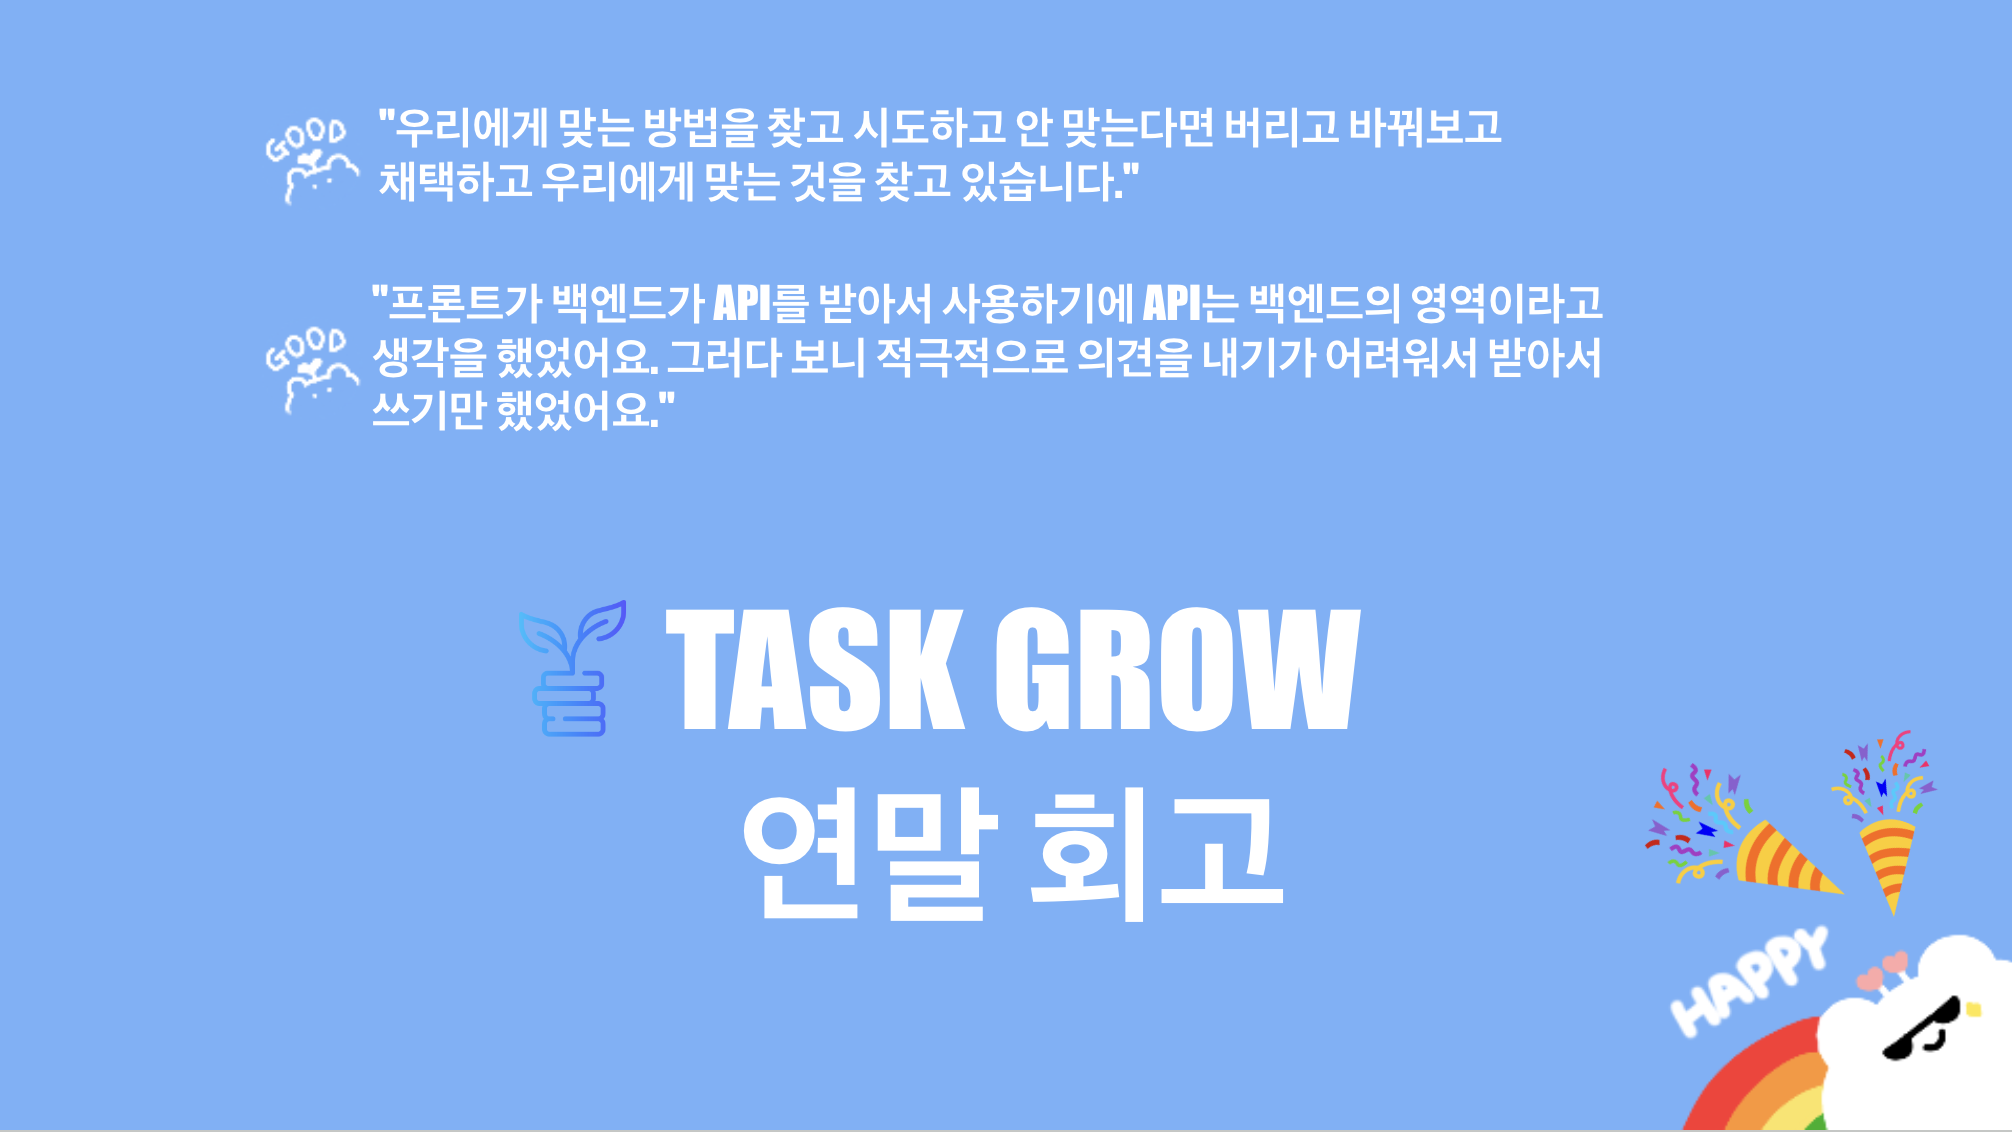
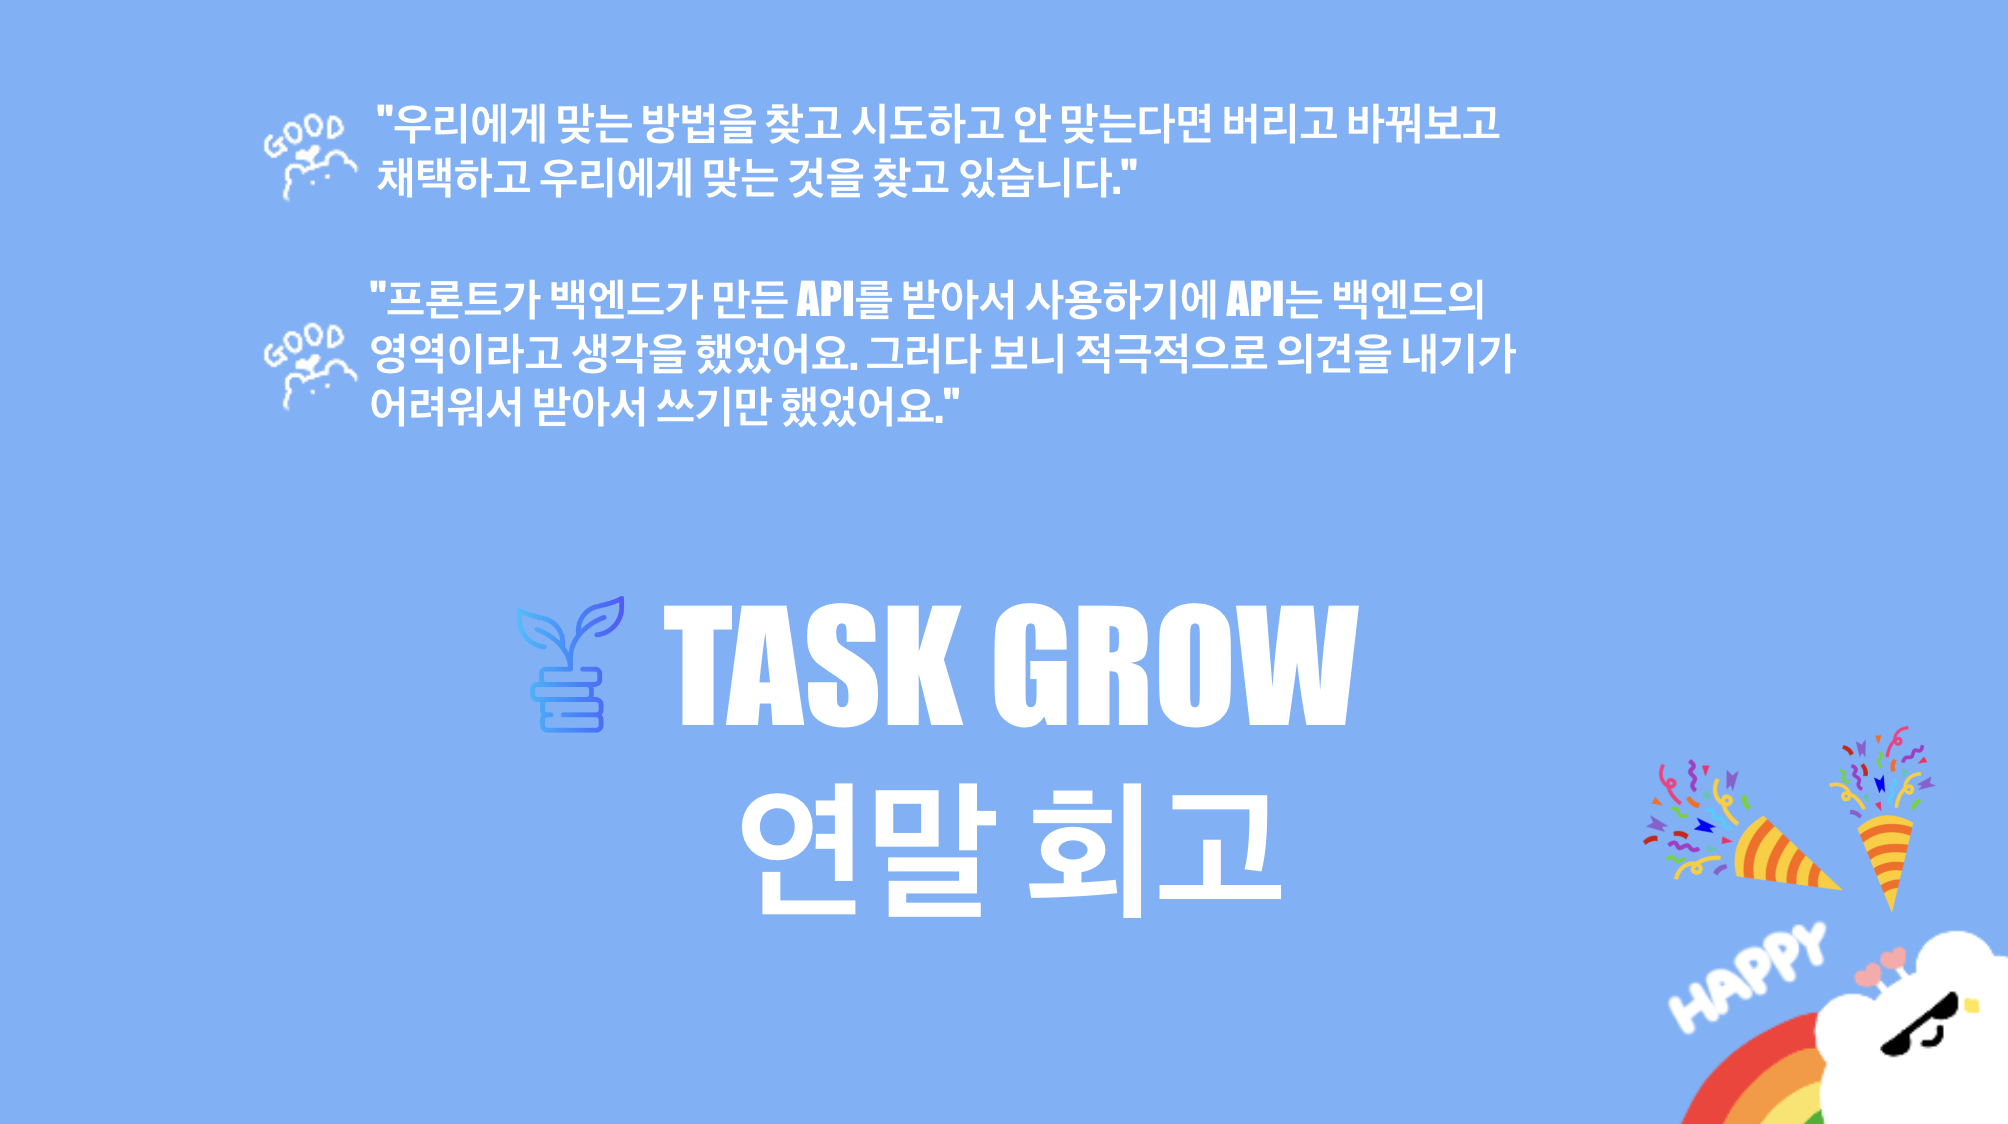
오타를 수정하라

diff --git a/_posts/2023-12-26-테스크 그로우의 연말 회고.md b/_posts/2023-12-26-테스크 그로우의 연말 회고.md
@@ -50,7 +50,7 @@ description: '테스크 그로우의 연말 회고'
 
 제일 성장했다고 느꼈을 때는 이전에 제가 작성한 코드의 고칠 부분이 보이고 그걸 좀 더 나은 방향으로 수정했을 때였어요. 이전에도 코드를 작성하면서 좀 더 괜찮은 방법이 있을 거 같다고는 생각했지만 그 방법은 생각해 내지 못했었는데 시간이 흐른 뒤 지금의 제가 수정하는 모습을 보고 조금이나마 성장했다는 것을 느낄 수 있었어요.
 
-그리고 협업하면서 어떻게 소통해야 하는지를 배웠어요. 또 칸반 보드, MSW를 도입해 보면서 더 나은 협업에 대해서도 고민해 보게 되었죠. 특히 API에 대한 생각이 많이 바뀌었어요. 이전에는 프론트가 백엔드가   API를 받아서 사용하기에 API는 백엔드의 영역이라고 생각을 했었어요. 그러다 보니 적극적으로 의견을 내기가 어려워서 받아서 쓰기만 했었어요. 어느 날 규원 님이 나에게 왔을 때 그대로 받아들이는 것이 아니라 분석과 설계는 해봐야 한다고 이야기를 하셨는데 그 말을 계기로 API가 오로지 백엔드의 영역이라는 관념에서 벗어나게 되었어요. 지금은 단순히 필요한 API를 요청하는 것에서 더 나아가 어떤 것이 필요한지, 왜 필요한지, 이렇게 구현해 보는 건 어떤지 설계를 함께 할 수 있게 되었어요.
+그리고 협업하면서 어떻게 소통해야 하는지를 배웠어요. 또 칸반 보드, MSW를 도입해 보면서 더 나은 협업에 대해서도 고민해 보게 되었죠. 특히 API에 대한 생각이 많이 바뀌었어요. 이전에는 프론트가 백엔드가 만든 API를 받아서 사용하기에 API는 백엔드의 영역이라고 생각을 했었어요. 그러다 보니 적극적으로 의견을 내기가 어려워서 받아서 쓰기만 했었어요. 어느 날 규원 님이 나에게 왔을 때 그대로 받아들이는 것이 아니라 분석과 설계는 해봐야 한다고 이야기를 하셨는데 그 말을 계기로 API가 오로지 백엔드의 영역이라는 관념에서 벗어나게 되었어요. 지금은 단순히 필요한 API를 요청하는 것에서 더 나아가 어떤 것이 필요한지, 왜 필요한지, 이렇게 구현해 보는 건 어떤지 설계를 함께 할 수 있게 되었어요.
 
 <br>
 
